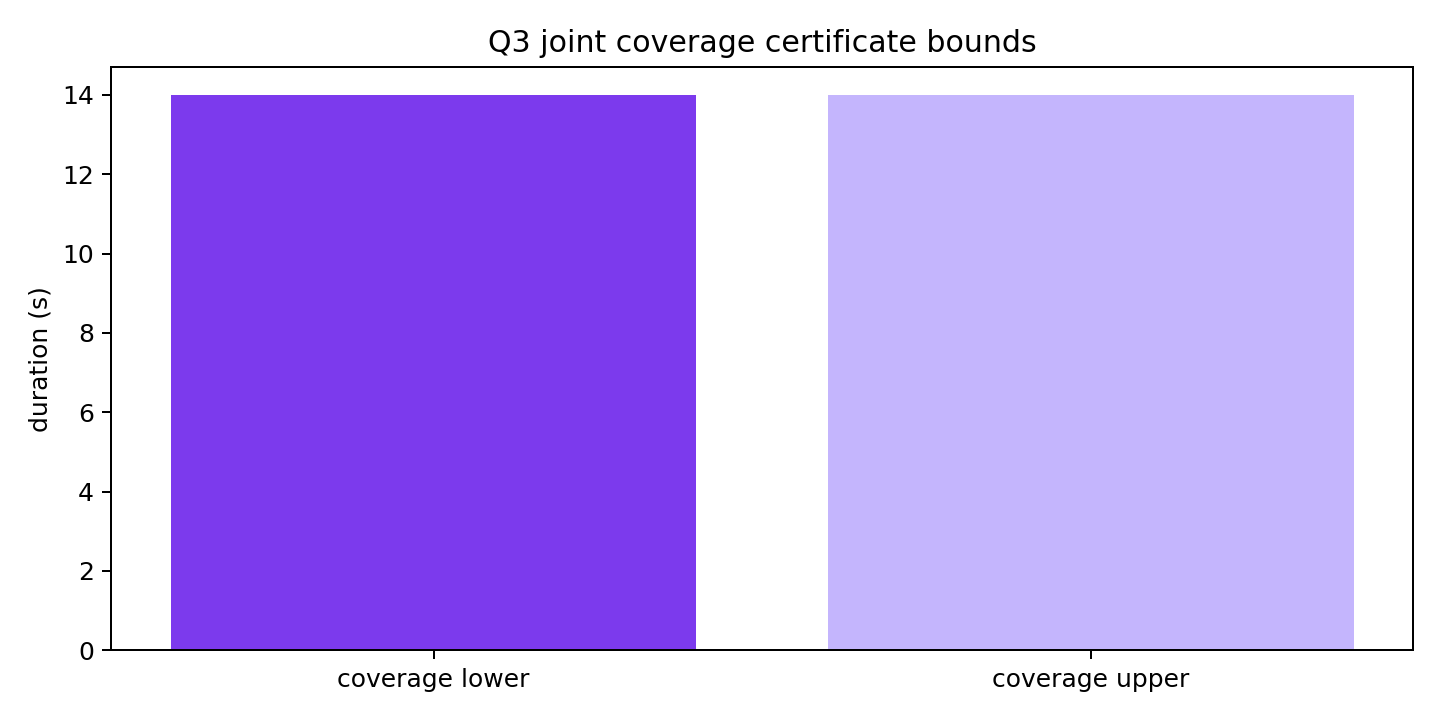
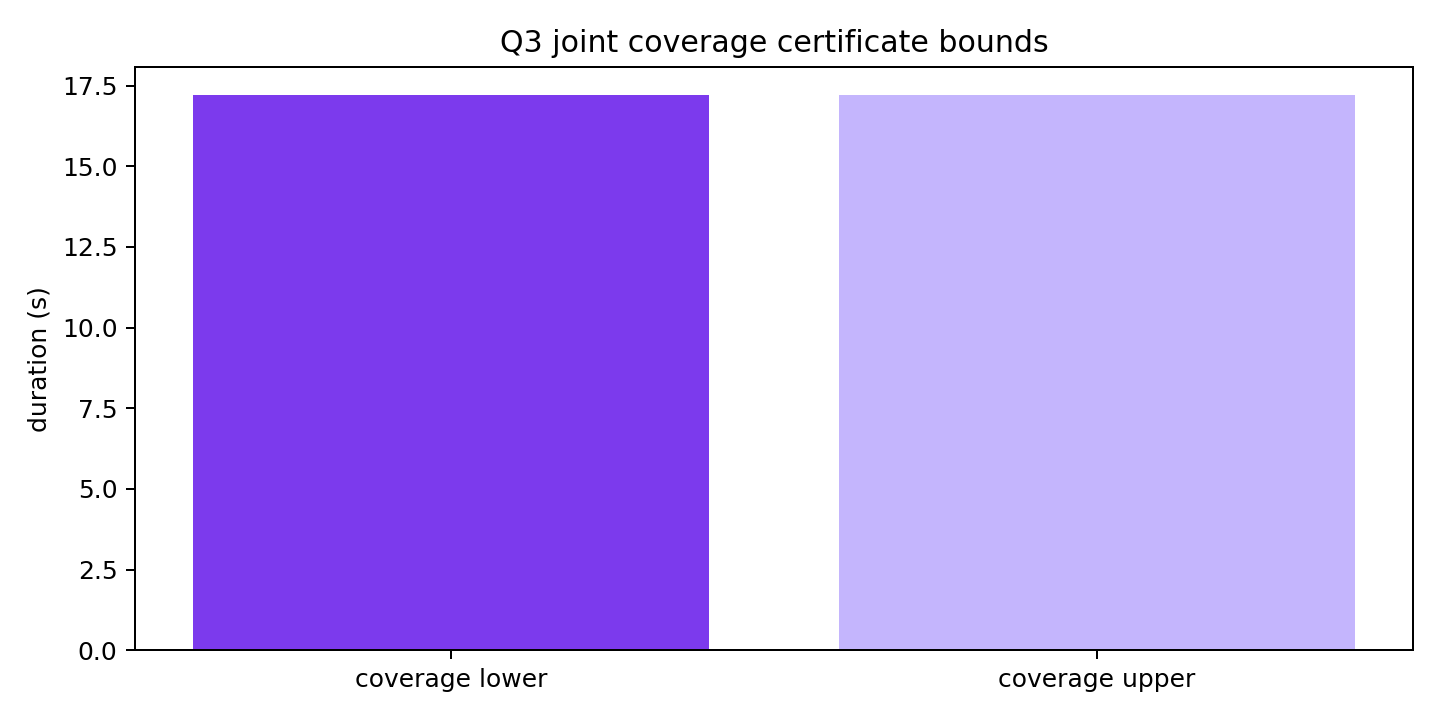
让 Q3 复用 Q2 已认证 warm start

diff --git a/src/smoke_defense/q3_rebuild.py b/src/smoke_defense/q3_rebuild.py
@@ -149,14 +149,28 @@ def q3_verification_rank(certificate: Q3Certificate) -> tuple[float, ...]:
     )
 
 
-def generate_q3_plan(problem: Q1Problem) -> tuple[Q3Plan, Q3Certificate]:
+def generate_q3_plan(
+    problem: Q1Problem,
+    *,
+    warm_burst_times_s: tuple[float, ...] = (),
+    warm_center_times_s: tuple[float, ...] = (),
+) -> tuple[Q3Plan, Q3Certificate]:
     start = max(5.5, problem.detection.components[0].start_s)
     end = problem.detection.components[-1].end_s
     span = end - start
-    bursts = (start, start + span / 2.0, end - 1e-3)
-    # The formal Q1 warm starts place fixed centres ahead of burst time; use
-    # that same causal offset for the three-UAV event candidates.
-    offset = min(12.1, max(0.0, span / 2.0))
-    centers = tuple(min(end, value + offset) for value in bursts)
+    if len(warm_burst_times_s) >= 2:
+        bursts = tuple(sorted((*warm_burst_times_s[:2], end - 1e-3)))
+        if len(warm_center_times_s) >= 2:
+            centers = tuple(
+                sorted((*warm_center_times_s[:2], min(end, end - 1e-3)))
+            )
+        else:
+            centers = bursts
+    else:
+        bursts = (start, start + span / 2.0, end - 1e-3)
+        # The formal Q1 warm starts place fixed centres ahead of burst time;
+        # use that same causal offset for the three-UAV event candidates.
+        offset = min(12.1, max(0.0, span / 2.0))
+        centers = tuple(min(end, value + offset) for value in bursts)
     plan = construct_q3_plan(problem, burst_times_s=bursts, center_times_s=centers)
     return plan, verify_q3_plan(problem, plan)

diff --git a/scripts/run_q3_rebuild.py b/scripts/run_q3_rebuild.py
@@ -30,13 +30,29 @@ def run() -> dict:
     RESULTS.mkdir(parents=True, exist_ok=True)
     FIGURES.mkdir(parents=True, exist_ok=True)
     rows = []
+    q2_payload = json.loads(
+        (ROOT / "results/q2_rebuild/q2_results.json").read_text(encoding="utf-8")
+    )
+    q2_warm = {
+        item["scenario_id"]: (
+            tuple(float(value) for value in item["burst_times_s"]),
+            tuple(float(value) for value in item.get("center_times_s", ())),
+        )
+        for item in q2_payload.get("scenarios", [])
+    }
     for scenario in generate_q1_rebuild_matrix()[:4]:
         problem = build_q1_problem(scenario)
-        plan, certificate = generate_q3_plan(problem)
+        warm_bursts, warm_centers = q2_warm.get(scenario.scenario_id, ((), ()))
+        plan, certificate = generate_q3_plan(
+            problem,
+            warm_burst_times_s=warm_bursts,
+            warm_center_times_s=warm_centers,
+        )
         rows.append(
             {
                 "scenario_id": scenario.scenario_id,
                 "interpretation": plan.interpretation,
+                "warm_start_source": "Q2_best_known" if warm_bursts else "Q1_event_anchors",
                 "uav_count": 3,
                 "bomb_count": 3,
                 "burst_times_s": list(plan.burst_times_s),
